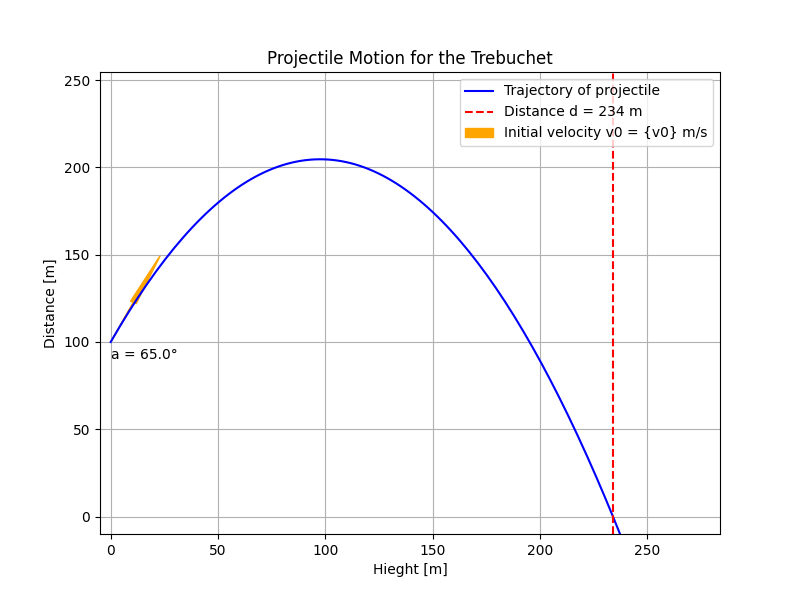
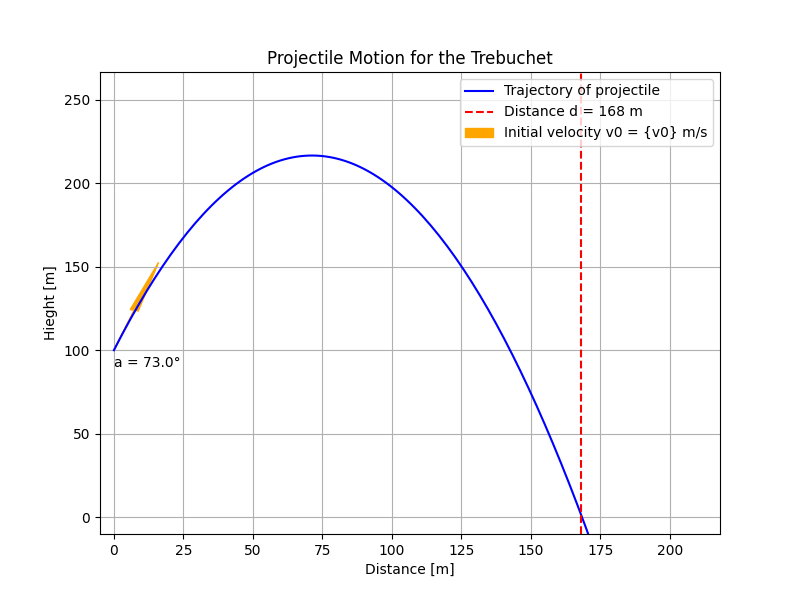
zapis labow

diff --git a/lab2/zad1.py b/lab2/zad1.py
@@ -1,0 +1,35 @@
+import pandas as pd
+import numpy as np
+
+#a
+df = pd.read_csv('iris_with_errors.csv')
+numeric_columns = ['sepal.length', 'sepal.width', 'petal.length', 'petal.width']
+for column in numeric_columns:
+    df[column] = pd.to_numeric(df[column], errors='coerce') #zmienia error na NaN
+
+missing_values = df.isnull().sum()
+print("Brakujące wartości w każdej kolumnie:")
+print(missing_values)
+print("\n\n\nStatystyki danych:")
+print(df.describe())
+
+#b
+for column in numeric_columns:
+    invalid_data = df[(df[column] <= 0) | (df[column] >= 15)]
+    if not invalid_data.empty:
+        print(f"\nNieprawidłowe dane w kolumnie {column}:")
+        print(invalid_data)
+        median_value = df[column].median()
+        df[column] = np.where((df[column] <= 0) | (df[column] >= 15), median_value, df[column])
+
+#c
+valid_species = ['Setosa', 'Versicolor', 'Virginica']
+invalid_species = df[~df['variety'].isin(valid_species)]
+if not invalid_species.empty:
+    print("\nNieprawidłowe gatunki:")
+    print(invalid_species)
+
+############ poprawienie danych i zapisanie do nowego pliku
+#    df['variety'] = df['variety'].apply(lambda x: x if x in valid_species else 'Unknown')
+#df.to_csv('iris_corrected.csv', index=False)
+###########################################################

diff --git a/lab2/zad2.py b/lab2/zad2.py
@@ -1,0 +1,14 @@
+from sklearn import datasets
+from sklearn.decomposition import PCA
+import pandas as pd
+
+iris = datasets.load_iris()
+X = pd.DataFrame(iris.data, columns=iris.feature_names)
+y = pd.Series(iris.target, name='FlowerType')
+print(X.head())
+
+pca_iris = PCA(n_components=3).fit(iris.data)
+print(pca_iris)
+print(pca_iris.explained_variance_ratio_)
+print(pca_iris.components_)
+print(pca_iris.transform(iris.data))

diff --git a/lab1/zad2.py b/lab1/zad2.py
@@ -54,8 +54,8 @@ if trafiony:
 ################################################
 
     plt.title("Projectile Motion for the Trebuchet")
-    plt.xlabel("Hieght [m]")
-    plt.ylabel("Distance [m]")
+    plt.xlabel("Distance [m]")
+    plt.ylabel("Hieght [m]")
     plt.legend(loc="upper right")
     plt.grid(True)
     plt.xlim(-5, cel + 50)
